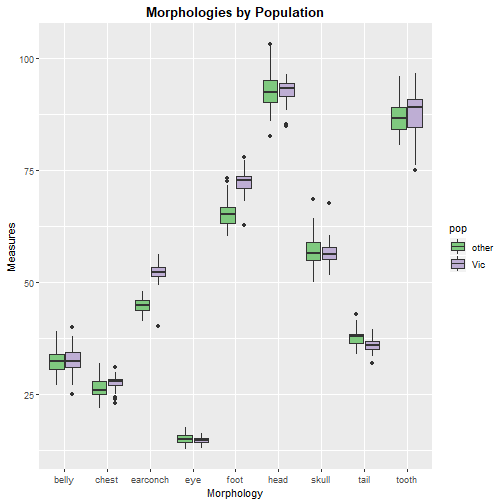
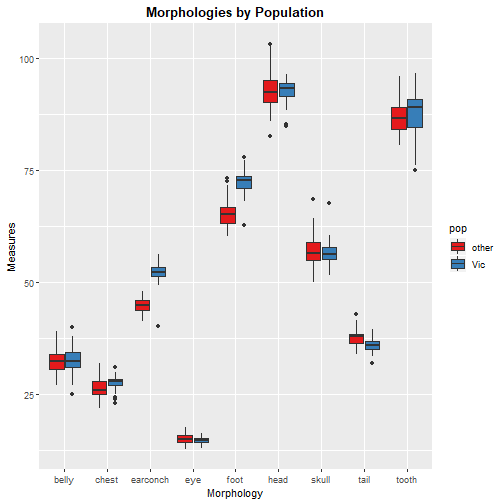
update

diff --git a/possum_presentation.md b/possum_presentation.md
@@ -28,8 +28,7 @@ library("RColorBrewer")
 
 ```r
  possum <- 
-   readr::read_csv(file = "possum.csv", 
-   na = c("", " ", "NA", "#N/A", "-999", "\\"))
+   readr::read_csv(file = "possum.csv", na = c("", " ", "NA", "#N/A", "-999", "\\"))
 ```
 
 Overview of Data
@@ -60,8 +59,7 @@ colnames(possum)
 ```r
 # Check for NA's
 ##install.packages("skimr")
-possum %>% 
-  skimr::skim()
+possum %>% skimr::skim()
 ```
 
 ```
@@ -118,25 +116,6 @@ possum <-
     tail = taill, #tail length
     tooth = totlngth #tooth length
     ) 
-possum
-```
-
-```
-# A tibble: 104 x 15
-   X1     case  site pop   sex     age  head skull tooth  tail  foot
-   <chr> <dbl> <dbl> <chr> <chr> <dbl> <dbl> <dbl> <dbl> <dbl> <dbl>
- 1 C3        1     1 Vic   m         8  94.1  60.4  89    36    74.5
- 2 C5        2     1 Vic   f         6  92.5  57.6  91.5  36.5  72.5
- 3 C10       3     1 Vic   f         6  94    60    95.5  39    75.4
- 4 C15       4     1 Vic   f         6  93.2  57.1  92    38    76.1
- 5 C23       5     1 Vic   f         2  91.5  56.3  85.5  36    71  
- 6 C24       6     1 Vic   f         1  93.1  54.8  90.5  35.5  73.2
- 7 C26       7     1 Vic   m         2  95.3  58.2  89.5  36    71.5
- 8 C27       8     1 Vic   f         6  94.8  57.6  91    37    72.7
- 9 C28       9     1 Vic   f         9  93.4  56.3  91.5  37    72.4
-10 C31      10     1 Vic   f         6  91.8  58    89.5  37.5  70.9
-# ... with 94 more rows, and 4 more variables: earconch <dbl>, eye <dbl>,
-#   chest <dbl>, belly <dbl>
 ```
 
 Dataset Cleaning-Up
@@ -184,7 +163,7 @@ possum %>%
 15 belly           0
 ```
 
-========================================================
+***
 Age had the most NA's (two of them), followed by foot length (only one).
 
 Why?
@@ -205,11 +184,10 @@ Is there a difference in possum morphology between populations in Victoria (the 
 
 ```r
 possum %>% gather(head, skull, tooth, tail, foot, earconch, eye, chest, belly, key=morph, value=measure) %>% group_by(pop) %>% 
-  ggplot(aes(x=morph, y=measure, fill=pop))+
-    geom_boxplot()+
-    labs(title="Morphologies by Population", x = "Morphology", y = "Measures")+
+  ggplot(aes(x=morph, y=measure, fill=pop))+ geom_boxplot()+
+  labs(title="Morphologies by Population", x = "Morphology", y = "Measures")+
   theme(plot.title = element_text(face="bold", hjust = 0.5))+
-  scale_fill_brewer(palette = "Accent")
+  scale_fill_brewer(palette = "Set1")
 ```
 
 ![plot of chunk unnamed-chunk-8](possum_presentation-figure/unnamed-chunk-8-1.png)
@@ -221,12 +199,9 @@ Sub Question 1: Difference in ear conch length between both populations?
 
 ```r
 possum %>% 
-  ggplot(aes(x=age, y=earconch, fill = pop))+
-  geom_boxplot()+
-  labs(title = "Relationship Between Possum Age and Ear Conch Length",
-       x= "Age",
-       y= "Ear Conch Length")+
-  scale_fill_brewer(palette = "Accent")
+  ggplot(aes(x=age, y=earconch, fill = pop))+ geom_boxplot()+
+  labs(title = "Relationship Between Possum Age and Ear Conch Length", x= "Age", y= "Ear Conch Length")+
+  scale_fill_brewer(palette = "Set1")
 ```
 
 ![plot of chunk unnamed-chunk-9](possum_presentation-figure/unnamed-chunk-9-1.png)
@@ -238,12 +213,9 @@ Sub Question 2: Correlation between age and ear conch length?
 
 ```r
 possum %>% 
-  ggplot(aes(x=age, y=earconch, color = pop))+
-  geom_point()+
-  labs(title = "Relationship Between Possum Age and Ear Conch Length",
-       x= "Age",
-       y= "Ear Conch Length")+
-  scale_color_brewer(palette = "Accent")
+  ggplot(aes(x=age, y=earconch, color = pop))+ geom_point()+
+  labs(title = "Relationship Between Possum Age and Ear Conch Length", x= "Age", y= "Ear Conch Length")+
+  scale_color_brewer(palette = "Set1")
 ```
 
 ![plot of chunk unnamed-chunk-10](possum_presentation-figure/unnamed-chunk-10-1.png)
@@ -254,13 +226,9 @@ Sub Question 3: Comparision of ear conch length by sex in both populations?
 ========================================================
 
 ```r
-possum %>% 
-  ggplot(aes(x=sex, y=earconch, color = pop))+
-  geom_point()+
-  labs(title = "Relationship Between Possum Age and Ear Conch Length",
-       x= "Sex",
-       y= "Ear Conch Length")+
-  scale_color_brewer(palette = "Accent")
+possum %>% ggplot(aes(x=sex, y=earconch, color = pop))+ geom_point()+
+  labs(title = "Relationship Between Possum Age and Ear Conch Length", x= "Sex", y= "Ear Conch Length")+
+  scale_color_brewer(palette = "Set1")
 ```
 
 ![plot of chunk unnamed-chunk-11](possum_presentation-figure/unnamed-chunk-11-1.png)
@@ -281,13 +249,9 @@ Count of females and males in both populations.
 
 ```r
 # Count of Possums by Sex in Victoria
-possum %>% 
-  filter (pop == "Vic") %>% 
-  ggplot(aes(x=sex, fill=sex))+
-  geom_bar()+
-  labs(title = "Count of Possums by Sex in Victoria",
-       x= "Sex",
-       y= "Count")+
+possum %>% filter (pop == "Vic") %>% 
+  ggplot(aes(x=sex, fill=sex))+ geom_bar()+
+  labs(title = "Count of Possums by Sex in Victoria", x= "Sex", y= "Count")+
   scale_fill_brewer(palette = "Set1")
 ```
 
@@ -299,13 +263,9 @@ We can see that there is a relatively equal ratio of female to male in the mount
 
 ```r
 # Count of Possums by Sex Outside of Victoria
-possum %>% 
-  filter (pop == "other") %>% 
-  ggplot(aes(x=sex, fill=sex))+
-  geom_bar()+
-  labs(title = "Count of Possums by Sex Outside of Victoria",
-       x= "Sex",
-       y= "Count")+
+possum %>% filter (pop == "other") %>% 
+  ggplot(aes(x=sex, fill=sex))+ geom_bar()+
+  labs(title = "Count of Possums by Sex Outside of Victoria", x= "Sex", y= "Count")+
   scale_fill_brewer(palette = "Set1")
 ```
 
@@ -318,13 +278,10 @@ The ratio of female to male is almost 2:1 in the short-eared possums outside of 
 ```r
 # Compare relative densities of sex by population
 possum %>% 
-  ggplot(aes(x=pop, y=sex, color=pop))+
-  geom_count()+  #this is a count plot
+  ggplot(aes(x=pop, y=sex, color=pop))+ geom_count()+  #this is a count plot
   scale_size_area(max_size = 28)+
-  labs(title="Density of Sex by Population", 
-       x="Population", 
-       y="Sex")+
-  scale_color_brewer(palette = "Accent")
+  labs(title="Density of Sex by Population", x="Population", y="Sex")+
+  scale_color_brewer(palette = "Set1")
 ```
 
 ![plot of chunk unnamed-chunk-14](possum_presentation-figure/unnamed-chunk-14-1.png)
@@ -338,8 +295,7 @@ Sub Question 2: Morphologies by Populations by sex
 # Morphologies of Possums by Sex in Victoria
 possum %>% filter(pop == "Vic") %>% gather(head, skull, tooth, tail, foot, earconch, eye, chest, belly, key=morph, value=measure) %>% group_by(sex) %>% 
   ggplot(aes(x=morph, y=measure, fill=sex))+ geom_boxplot()+
-  labs(title = "Morphologies of Possums by Sex in Victoria", x= "Sex", y= "Count")+
-  scale_fill_brewer(palette = "Set1")
+  labs(title = "Morphologies of Possums by Sex in Victoria", x= "Sex", y= "Count")+ scale_fill_brewer(palette = "Set1")
 ```
 
 ![plot of chunk unnamed-chunk-15](possum_presentation-figure/unnamed-chunk-15-1.png)
